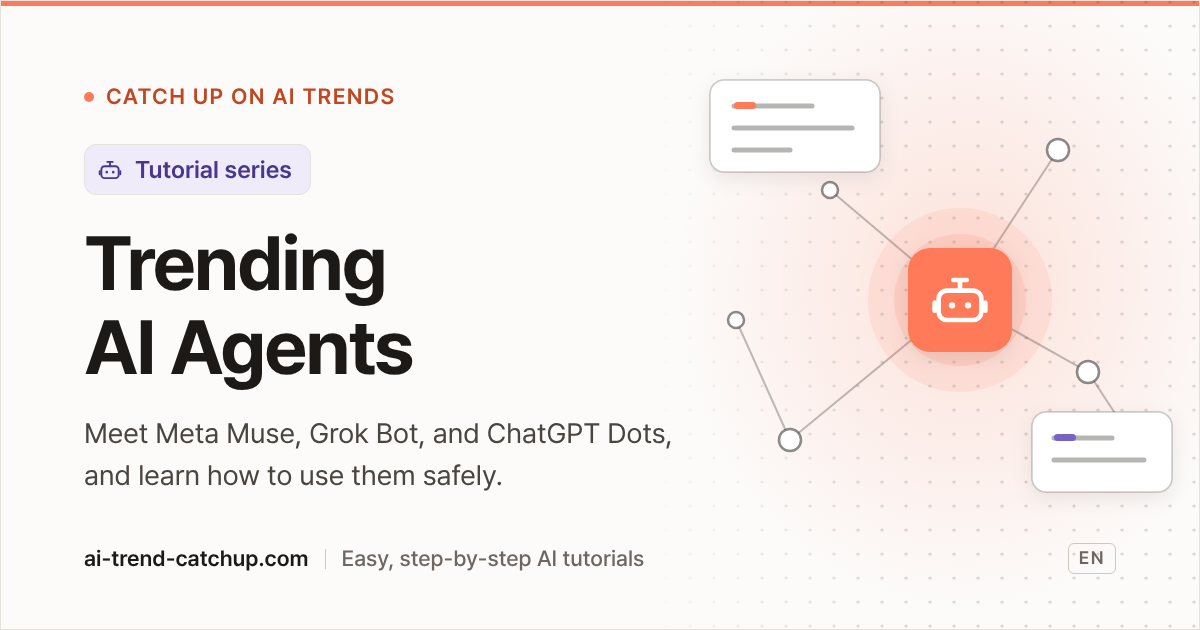
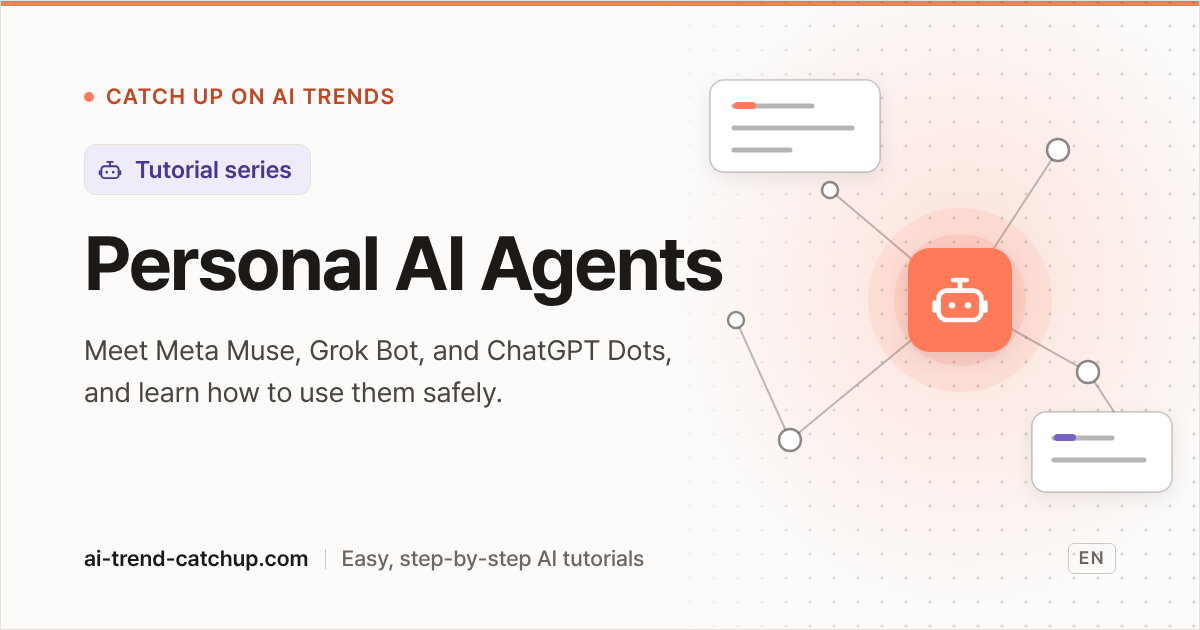
Restructure navigation: flatter sidebar, clearer names, lighter home
- Sidebar: What's new / Learn / 8 topics / Job roles / Toolbox
- Rename Trending AI Agents -> Personal AI Agents, Coding & Agents -> Coding Tools, Recent updates -> Site changelog
- Home: drop full TOC chip wall and banners, reorder topic cards
- Scroll current sidebar item into view; dedupe start pages

Claude-Session: https://claude.ai/code/session_018cdTexUA7yq5gcfmybuxoc

Changed region(s): [[0.0617, 0.3619, 0.6167, 0.4825], [0.0617, 0.6635, 0.555, 0.7841], [0.0617, 0.5127, 0.555, 0.6333]]

diff --git a/src/lib/i18n.ts b/src/lib/i18n.ts
@@ -24,10 +24,10 @@ const dict = {
   'level.advanced': { ko: '고급', en: 'Advanced' },
   'cat.claude': { ko: 'Claude 완전 정복', en: 'Mastering Claude' },
   'cat.chat': { ko: '대화형 AI 기본기', en: 'Chat AI Basics' },
-  'cat.coding': { ko: '코딩·에이전트', en: 'Coding & Agents' },
+  'cat.coding': { ko: '코딩 도구', en: 'Coding Tools' },
   'cat.media': { ko: '이미지·영상·음성', en: 'Image, Video & Voice' },
   'cat.automation': { ko: '업무 자동화·생산성', en: 'Automation & Productivity' },
-  'cat.agents': { ko: '화제의 AI 에이전트', en: 'Trending AI Agents' },
+  'cat.agents': { ko: '개인 AI 에이전트', en: 'Personal AI Agents' },
   'cat.dev': { ko: '개발자 심화', en: 'Advanced for Developers' },
   'cat.basics': { ko: 'AI 첫걸음', en: 'AI First Steps' },
   'site.name': { ko: '최신 AI 트렌드 따라 잡기', en: 'Catch Up on AI Trends' },
@@ -130,6 +130,7 @@ const dict = {
     ko: '가입부터 첫 질문, 안전하게 쓰는 법, 휴대폰 활용까지 {n}편',
     en: '{n} tutorials, from signing up and your first question to safe use and using AI on your phone',
   },
+  'cc.claude.desc': { ko: '모델 고르기부터 프로젝트, 커넥터, 스킬, Claude Code, API까지', en: 'From choosing a model to projects, connectors, skills, Claude Code, and the API' },
   'cc.agents.desc': { ko: 'Meta Muse, Grok Bot, ChatGPT Dots 알아보기', en: 'Meet Meta Muse, Grok Bot, and ChatGPT Dots' },
   'cc.dev.desc': { ko: '도구 사용, Agent SDK, MCP 서버, CI 자동화, 평가', en: 'Tool use, Agent SDK, MCP servers, CI automation, evals' },
   'cc.chat.desc': { ko: '프롬프트, 요약, 데이터 분석, 문서 작성', en: 'Prompts, summaries, data analysis, document writing' },
@@ -142,14 +143,14 @@ const dict = {
   'toc.practical': { ko: '실무자 시작점', en: 'Practitioner start' },
   'toc.advanced': { ko: '고급 사용자 시작점', en: 'Advanced start' },
   'toc.rolesGuide': { ko: '직무별 가이드', en: 'Guides by job role' },
-  'toc.fields': { ko: '분야별 튜토리얼', en: 'Tutorials by Topic' },
+  'toc.fields': { ko: '주제별 튜토리얼', en: 'Tutorials by Topic' },
   'toc.ref': { ko: '참고 자료', en: 'Reference' },
   'toc.prompts': { ko: '바로 쓰는 프롬프트 모음', en: 'Ready-to-use prompts' },
   'toc.glossary': { ko: 'AI 용어 사전', en: 'AI glossary' },
   'toc.all': { ko: '전체 튜토리얼', en: 'All tutorials' },
-  'toc.updates': { ko: '최근 업데이트', en: 'Recent updates' },
+  'toc.updates': { ko: '사이트 수정 기록', en: 'Site changelog' },
   'toc.about': { ko: '소개', en: 'About' },
-  'toc.news': { ko: 'Claude 최신 소식', en: 'Claude news' },
+  'toc.news': { ko: 'Claude 소식', en: 'Claude news' },
   'toc.show': { ko: '{n}개 보기', en: 'Show {n}' },
   // RecentUpdates
   'recent.empty': {

diff --git a/src/lib/tutorials.ts b/src/lib/tutorials.ts
@@ -14,10 +14,10 @@ export const levelLabels: Record<Level, string> = {
 export const categoryLabels: Record<Category, string> = {
   claude: 'Claude 완전 정복',
   chat: '대화형 AI 기본기',
-  coding: '코딩·에이전트',
+  coding: '코딩 도구',
   media: '이미지·영상·음성',
   automation: '업무 자동화·생산성',
-  agents: '화제의 AI 에이전트',
+  agents: '개인 AI 에이전트',
   dev: '개발자 심화',
   basics: 'AI 첫걸음',
 };
